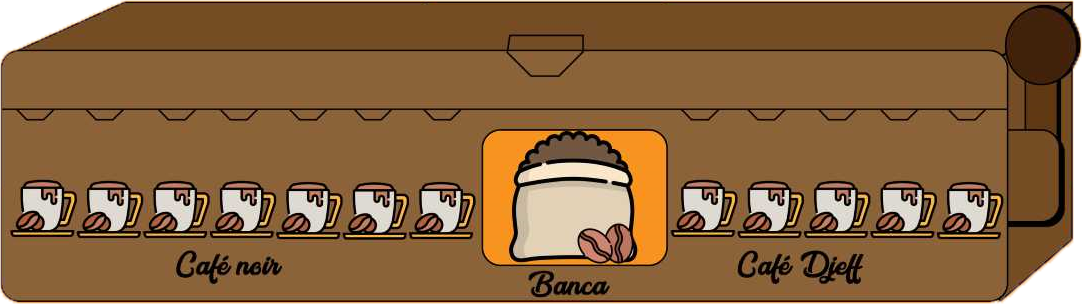
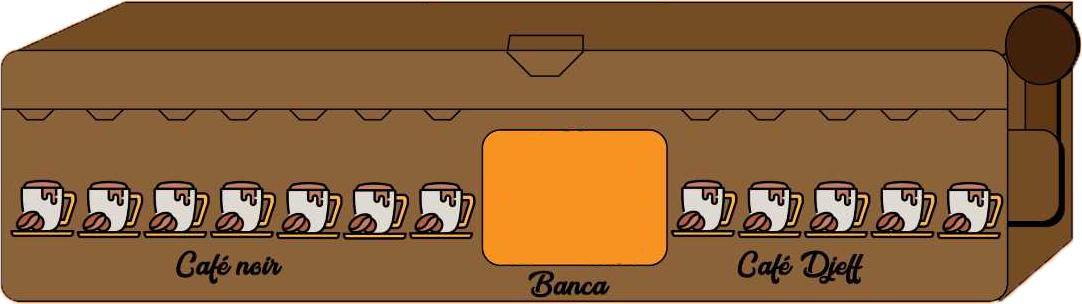
dk: layout check in
dk: layout check in

Changed region(s): [[0.4575, 0.4145, 0.61, 0.8882]]

diff --git a/staging/app.css b/staging/app.css
@@ -1,11 +1,10 @@
 .wrapper{
- 
+  background: #865b1b;
   width:100%;
   height:100vh;
 }
 body{
-    overflow:hidden;
-    background: #865b1b;
+    overflow:hidden
 }
 .coffee-parent{
     width: 80%;
@@ -44,13 +43,7 @@ body{
 .table {
     text-align: center
 }
-.boiling::after{
-  width:30px;
-  height: 30px;
-  background: url('images/coffee-bean-color-512.png');
-  background-size: contain;
-  content: '';
-}
+
 
 
 #stars {
@@ -124,84 +117,13 @@ body{
   }
   .coffee-icons span{
       background:url('images/coffee-bean-color-512.png');
-      width: 35px;
+      width: 30px;
       height: 75px;
       position: absolute;
       z-index: 999;
       background-size: contain;
       background-repeat: no-repeat;
       opacity:0
-  }
-  .coffee-icons span.sack{
-    opacity: 1;
-    background: none;
-    font-size: 49px;
-    margin-left: -22px;
-    margin-top: 14px;
-    font-weight: bold;
-    animation:fadeInOut 0.5s;
-    opacity: 0;
-    animation-delay:26s;
-    animation-fill-mode: forwards
-  }
-  span.grinder_bottom {
-    margin: 85px -18px 0;
-    height: 66px;
-    width: 72px;
-    border-radius: 80px 80px 5px 5px;
-    opacity:1;
-    background: url(images/8.png);
-    background-size: contain;
-    background-repeat: no-repeat;
-    overflow:hidden;
-    animation:fadeIn 0.5s;
-    opacity: 0;
-    animation-delay:3s;
-    animation-fill-mode: forwards
-  }
- @keyframes fadeIn{
-   0%{opacity:0; transform: scale(1.5)}
-   100%{opacity:1; transform: scale(1)}
- }
- @keyframes fadeInOut{
-  0%{opacity:0; transform: scale(0)}
-  100%{opacity:1; transform: scale(1)}
-}
-  span.grinder_bottom:after {
-    content:'';
-   
-   
-  }
-  .finale-cup{
-    position: absolute;
-    top: 0;
-    text-align: center;
-    z-index: 999;
-    margin-top: 135px;
-    animation:cupfadeIn 1s;
-    opacity: 0;
-    animation-delay:27s;
-    animation-fill-mode: forwards
-    
-  }
-  @keyframes cupfadeIn{
-    0%{opacity:0; transform: scale(2)}
-    50%{opacity:1; transform: scale(0.5)}
-    100%{opacity:1; transform: scale(1)}
-  }
-  .jug{
-    animation:jugfadeIn 0.5s;
-    opacity: 1;
-    animation-delay:26.5s;
-    animation-fill-mode: forwards
-  }
-  @keyframes jugfadeIn{
-    0%{opacity:1; transform: scale(1)}
-    100%{opacity:0; transform: scale(0)}
-  }
-  .clock{
-    float: left;
-    margin: 0 100px;
   }
   .coffee-icons span.one{
     -webkit-animation:  coffee-one 5s ; /* Safari 4.0 - 8.0 */
@@ -370,7 +292,6 @@ body{
 
   .shake-glass {
     animation: shake2 0.5s ease 2s;
-    width: 25%;
   }
   @keyframes shake2 {
       0%, 100% {transform: translateX(0);}
@@ -401,12 +322,5 @@ body{
       opacity: 1;
       transform: translateY(0);
     }
-  }
-  footer p{
-    text-align: center;
-    padding-top:10px
-  }
-  footer img{
-    float: left;
   }
   

diff --git a/staging/index.html b/staging/index.html
@@ -16,36 +16,19 @@
                 <div id='stars3'></div>
             <div class="top-left-section absolute">
                     <div class="full-width">
-                        <img style="margin-left: 20px;margin-top:25px;float: left;" class="bounce" src="images/10 (1).png" width="10%"/>
-                        <img style="margin-left: 50px" class="fade-in-down" src="images/6 (1).png" width="15%"/>
+                        <img class="bounce" src="images/10 (1).png" width="140"/>
+                        <img class="fade-in-down" src="images/6 (1).png" width="240"/>
                     </div>
-                    <img src="images/tenor.gif" class="clock" width="100"/>
+                    <img src="images/4 (1).png" class="right" width="100"/>
             </div>
 
             <div class="mid-section">
-              
-               <div class="boiling">
-                <div class="jug">
-                        <img class="shake-glass" src="images/source.gif" />
-                </div>   
-                <div class="finale-cup">
-                        <img  src="images/Tasse.png" width="28%"/>
-                </div>
-
-               </div>
+               <img class="shake-glass" src="images/2 (1).png" />
             </div>
 
         <div class="top-right-section absolute">
             <div class="full-width">
-               <div class="full-width">
-                    <img style="margin:30px" class="fade-in-down right" src="images/cofee-mug.png" width="18%"/>
-                    <img class="fade-in-down right" src="images/7 (1).png" width="15%"/><br/>
-                    <img style="    margin: 90px -155px;" src="images/prochain.gif" class="right" width="100"/>
-                   
-               </div>
-               
-              
-
+                <img class="fade-in-down " src="images/7 (1).png" width="240"/>
             </div>
     </div>
 
@@ -63,20 +46,10 @@
                     <span class="ten"></span>
                     <span class="eleven"></span>
                     <span class="twelve"></span>
-
-                    
-                    <span class="grinder_bottom">
-                            <span class="sack ">8</span>
-                    </span>
                 </div>
         <img src="images/5 (1).png" width="100%"/>
     </div>
-<footer>
-    <img src="images/footer-logo.PNG"/>
-    <p>
-        Ce tirage concerne le jeu sur place no
-    </p>
-</footer>
+
         </div>
   
     </div>
